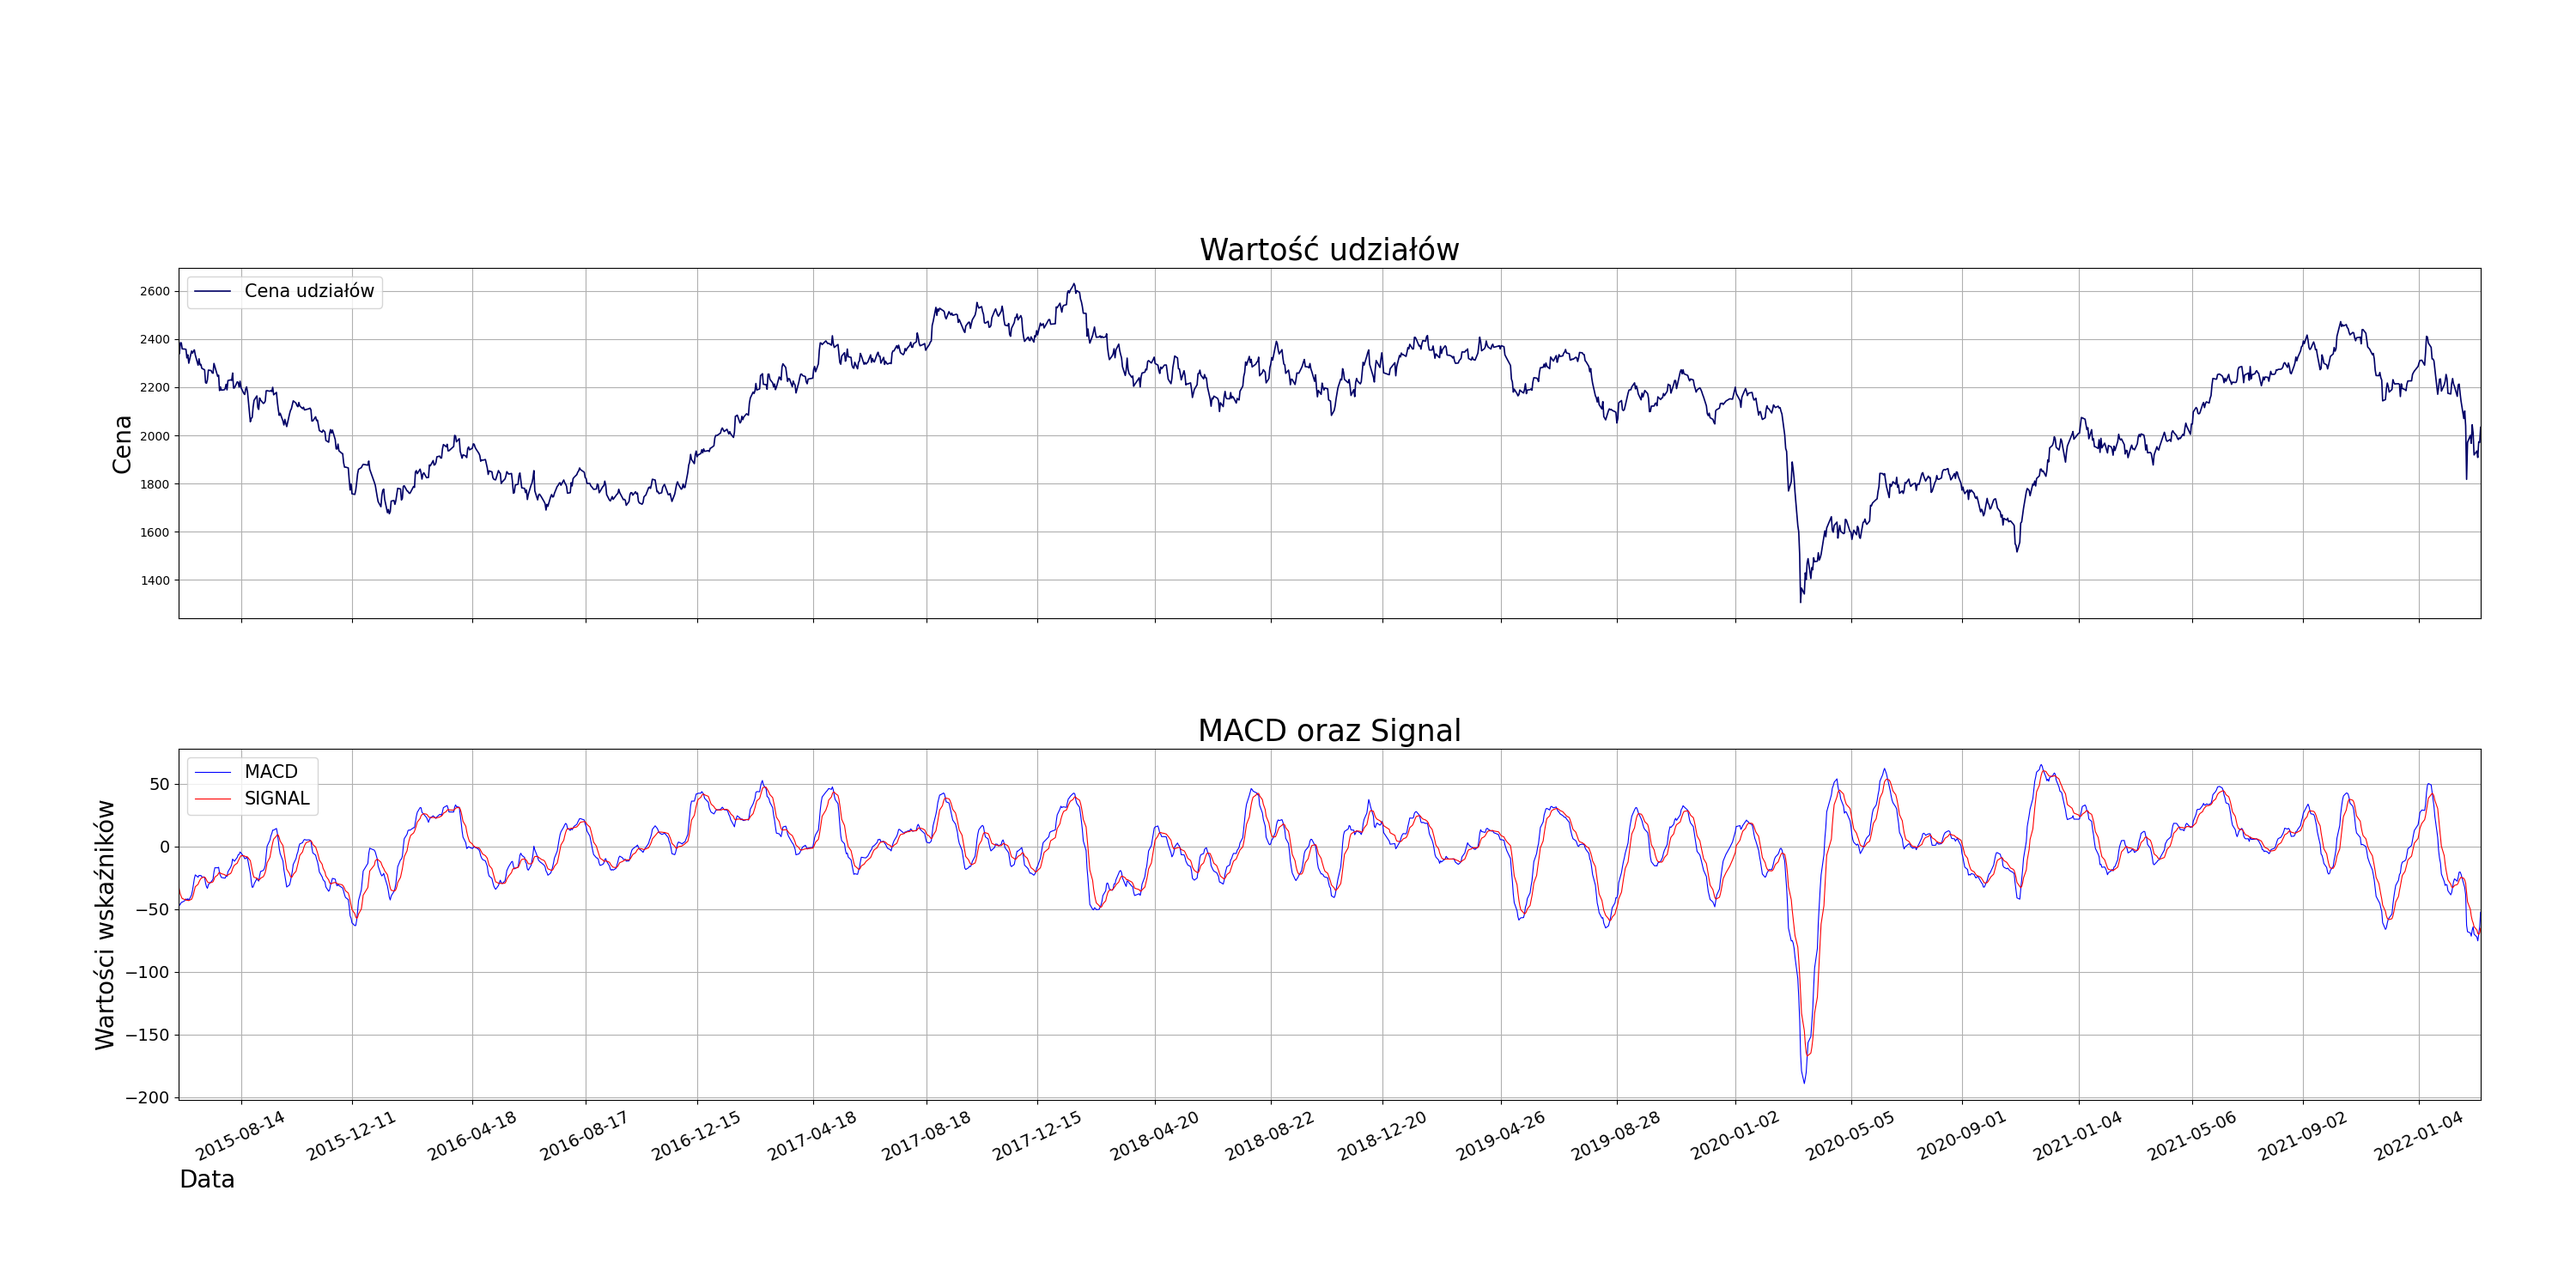
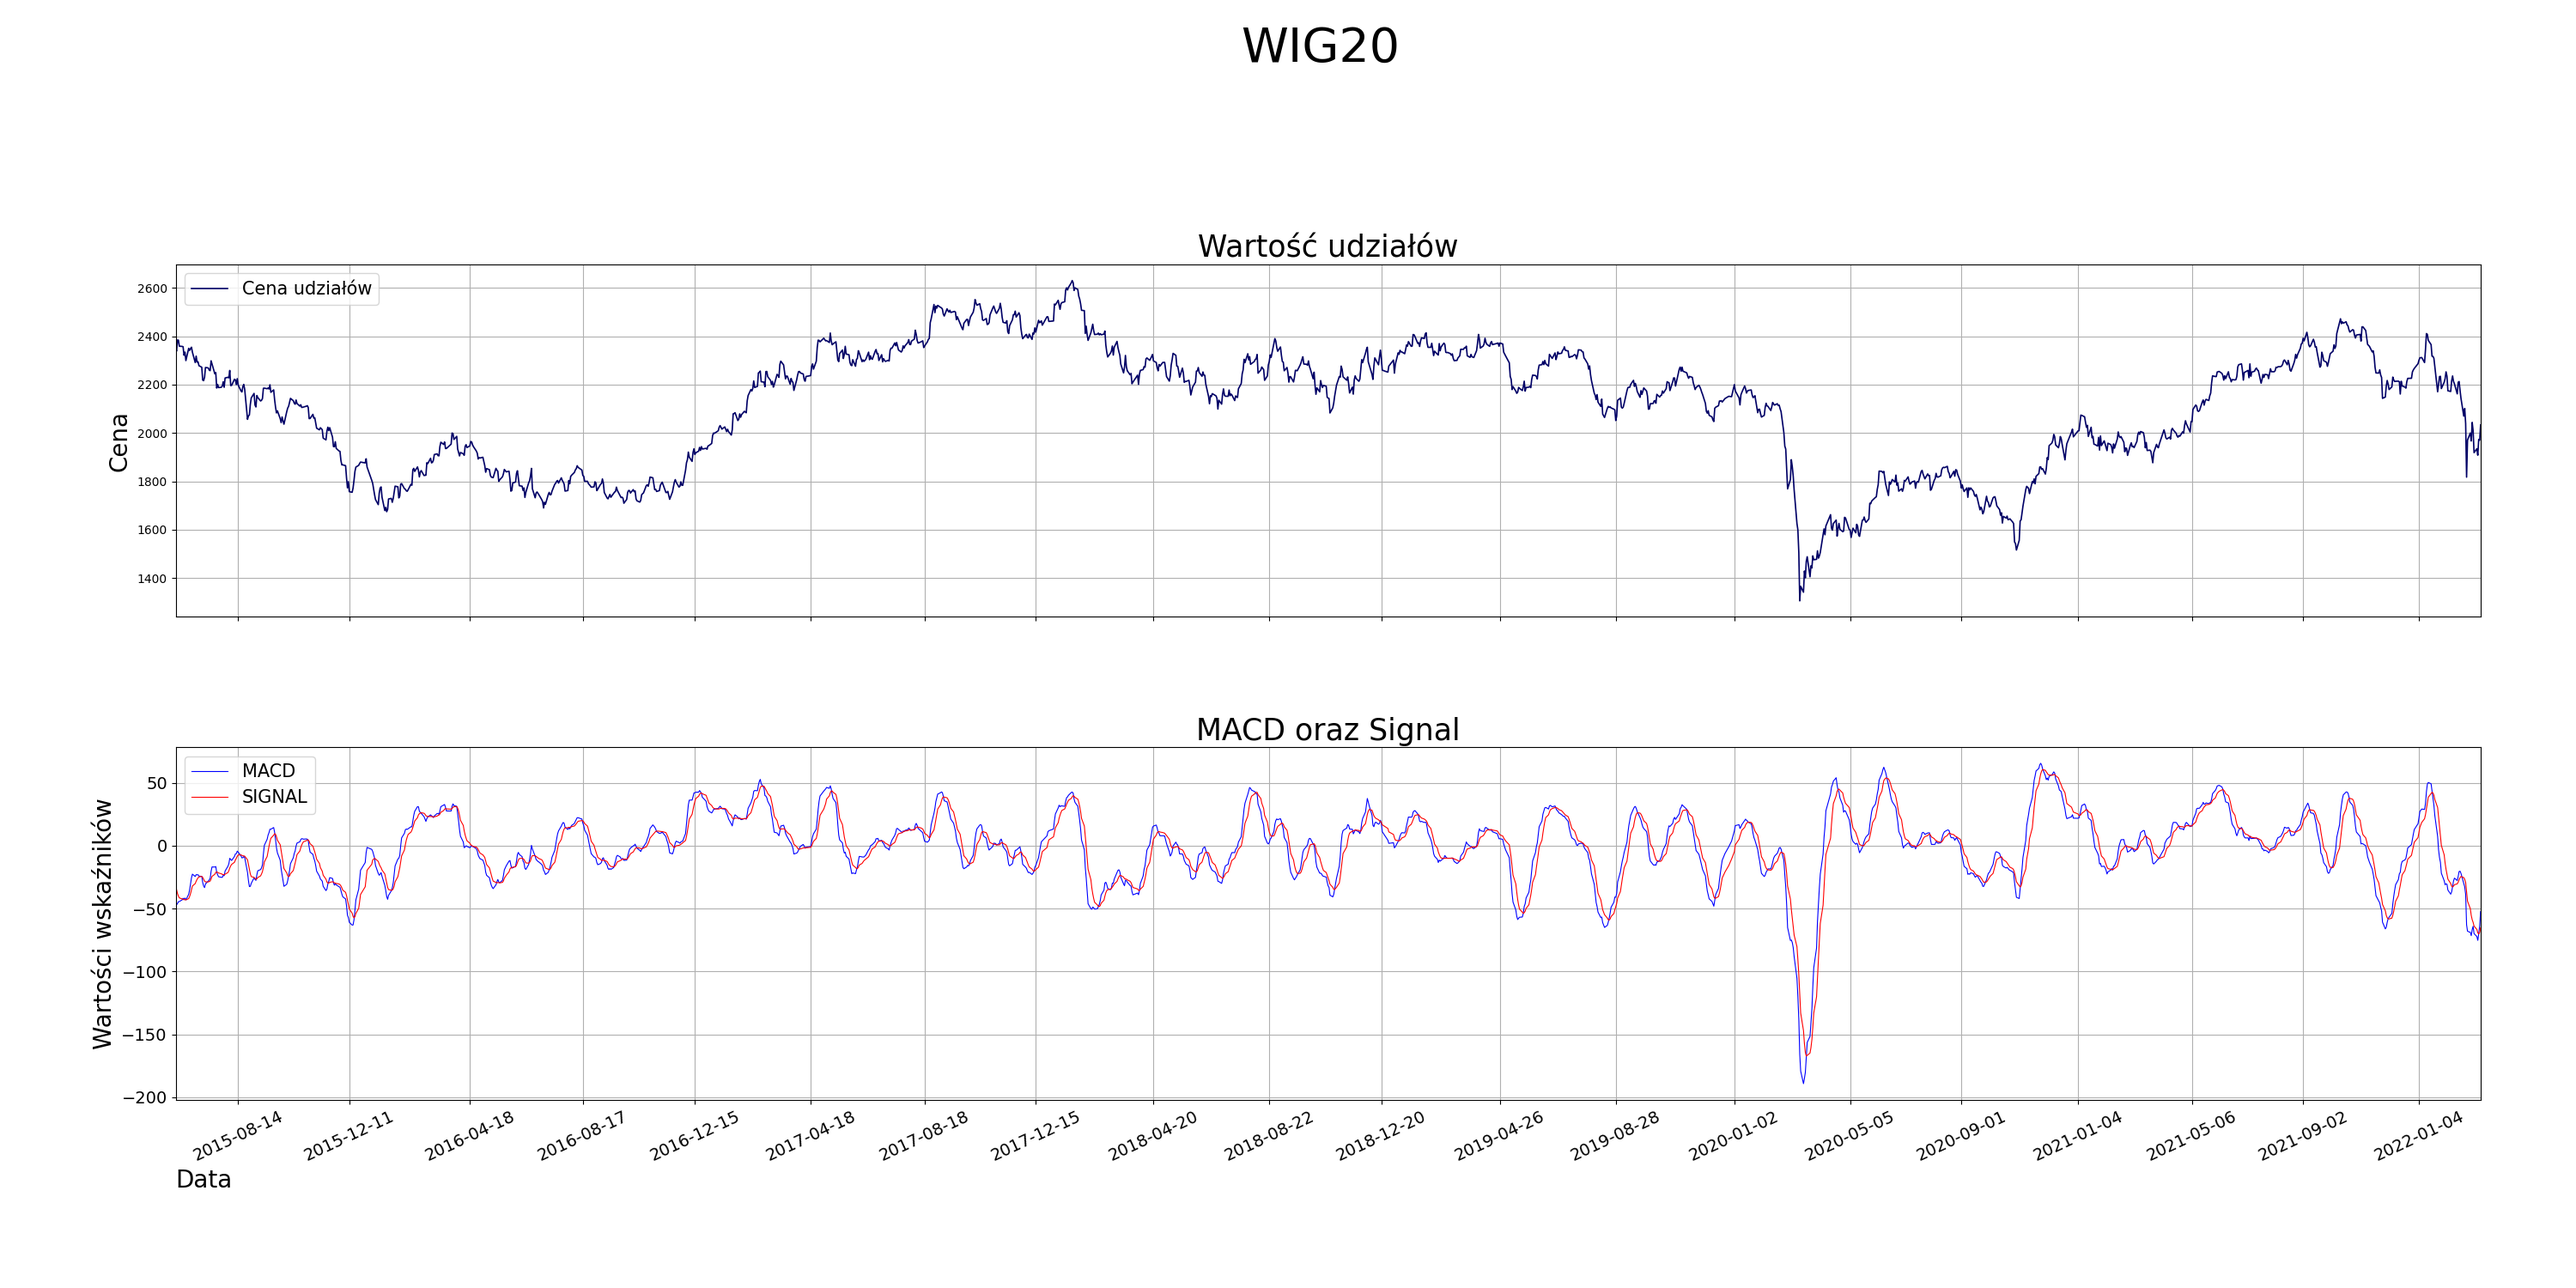
Katalog CSV i trochę sprawko

diff --git a/Projekt1 - MACD/Projekt1/Sprawko.tex b/Projekt1 - MACD/Projekt1/Sprawko.tex
@@ -68,7 +68,7 @@
 
     Wskaźnik MACD jest przydatny do inwestycji w akcje stabilne, które nie ulegają częstym nagłym zmianą.
     Dla danych przedstawionych na powyższym wykresie prosty algorytm działający jedynie na podstawie MACD
-    osiągnął niemały zysk.\% 
+    osiągnął duży zysk- zaczynjąc z udziałami wartymi 157 700 zł, a kończąc z wartymi 219 733 zł.
    
 
     
@@ -76,6 +76,6 @@
 
 \section{Analiza przydatności MACD do inwestowania}
 
-    Tutaj analiza algorytmu do inwestowania
+    Analziując
 
 \end{document}

diff --git a/Projekt1 - MACD/Projekt1/main.py b/Projekt1 - MACD/Projekt1/main.py
@@ -7,8 +7,8 @@ import functions
 
 
 # definicja plików wejsciowych i nazwy indeksu ktory bedziemy analziowac
-csvFilepath = 'CDP-krótki.csv'
-indexname = 'CD PROJEKT RED - 4 lata'
+csvFilepath = 'WIG20.csv'
+indexname = 'WIG20'
 
 csvFilepath = 'CSV/' + csvFilepath
 
